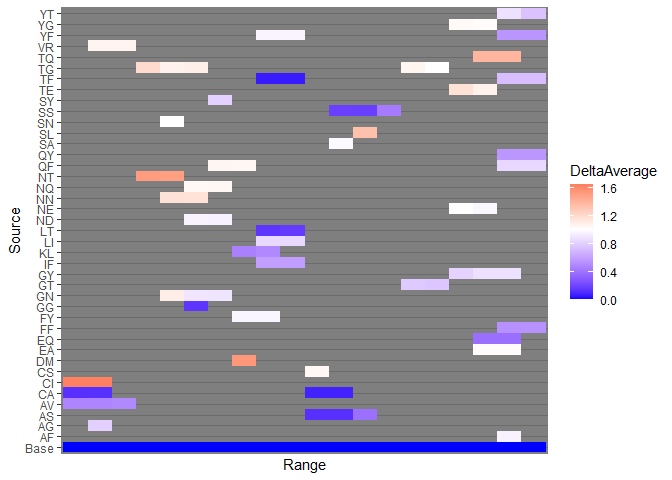
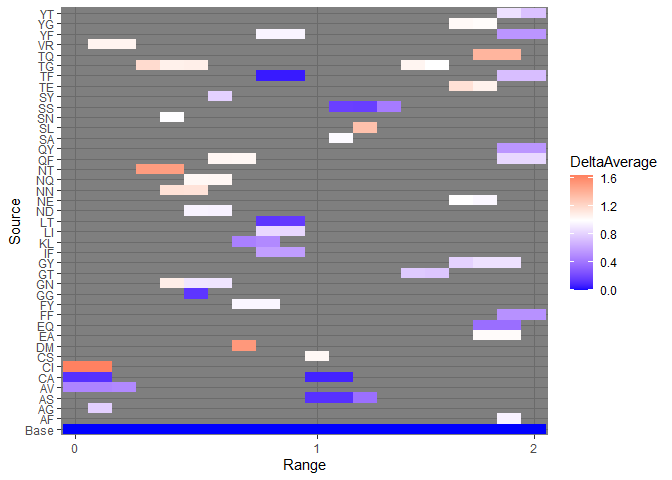
Submission Commit

diff --git a/README.md b/README.md
@@ -3,6 +3,10 @@
 
 # SPANTCR
 
+### Alex Xu
+
+### <alex.m.xu@gmail.com>
+
 <!-- badges: start -->
 <!-- badges: end -->
 
@@ -178,7 +182,7 @@ VDJDBCMV_Entropy[[1]]$Source <- factor(VDJDBCMV_Entropy[[1]]$Source, levels=c("B
 
 ggplot(VDJDBCMV_Entropy[[1]][Count>20])+
   geom_tile(aes(x=Range, y=Source, fill=DeltaAverage))+
-  scale_x_discrete(breaks=c("0-0.01","1-1.01","1.99-2"), labels=c(0,1,2))+
+  scale_x_discrete(breaks=c("0-0.1","1-1.1","1.9-2"), labels=c(0,1,2))+
   scale_fill_gradient2(low="blue", mid="white", high="red", midpoint = 1)+
   theme_dark()
 ```
